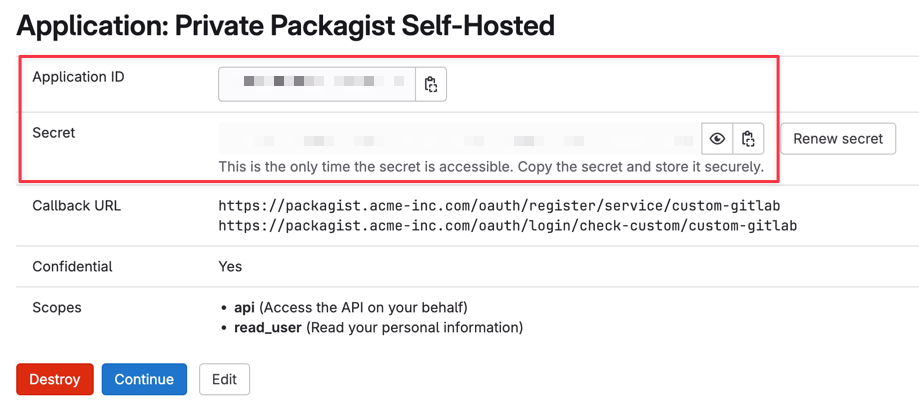
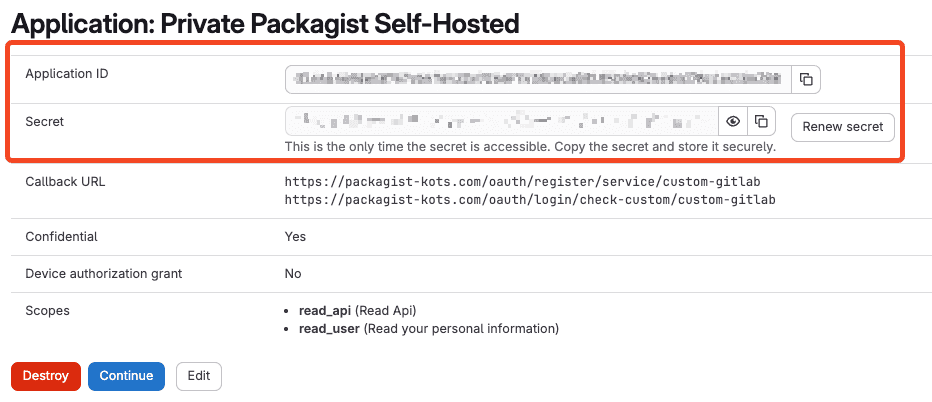
Sync packagist/private-packagist@7bd886ef96a6400221db211d2b4e26cd723492f4

diff --git a/docs/cloud/gitlab-integration-setup.md b/docs/cloud/gitlab-integration-setup.md
@@ -20,7 +20,7 @@ From the organization settings page, select the "Integrations" subtab. Hit the "
 To set up a GitLab Self-Managed integration with Private Packagist, start by selecting "GitLab" as the platform and enter the URL of your own GitLab server. 
 A link to setup the OAuth application on your GitLab server will automatically be displayed.
 
-![Packagist Setup](/Resources/public/img/docs/integration-setup/cloud/gitlab-self-managed-01-packagist-setup-20241219.png)
+![Packagist Setup](/Resources/public/img/docs/integration-setup/cloud/gitlab-self-managed-01-packagist-setup-20260422.png)
 
 ## Add an OAuth Application
 
@@ -44,7 +44,7 @@ After you create the application, you will get a new Application ID and Secret. 
 
 Copy and paste the "Application Id" and "Secret" value back into the Private Packagist integration form and submit the form with the "Save Integration" button.
 
-![Complete integration form](/Resources/public/img/docs/integration-setup/cloud/gitlab-self-managed-04-packagist-form-20241219.png)
+![Complete integration form](/Resources/public/img/docs/integration-setup/cloud/gitlab-self-managed-04-packagist-form-20260422.png)
 
 You'll be redirected back to the list of integrations.
 
@@ -56,4 +56,3 @@ your newly created GitLab integration on the integrations page, and copy the URL
 ![GitLab integration](/Resources/public/img/docs/integration-setup/cloud/gitlab-self-managed-05-integration.png)
 
 This link presents the option to authenticate with your GitLab account and can now be used to log in to Private Packagist. 
-
